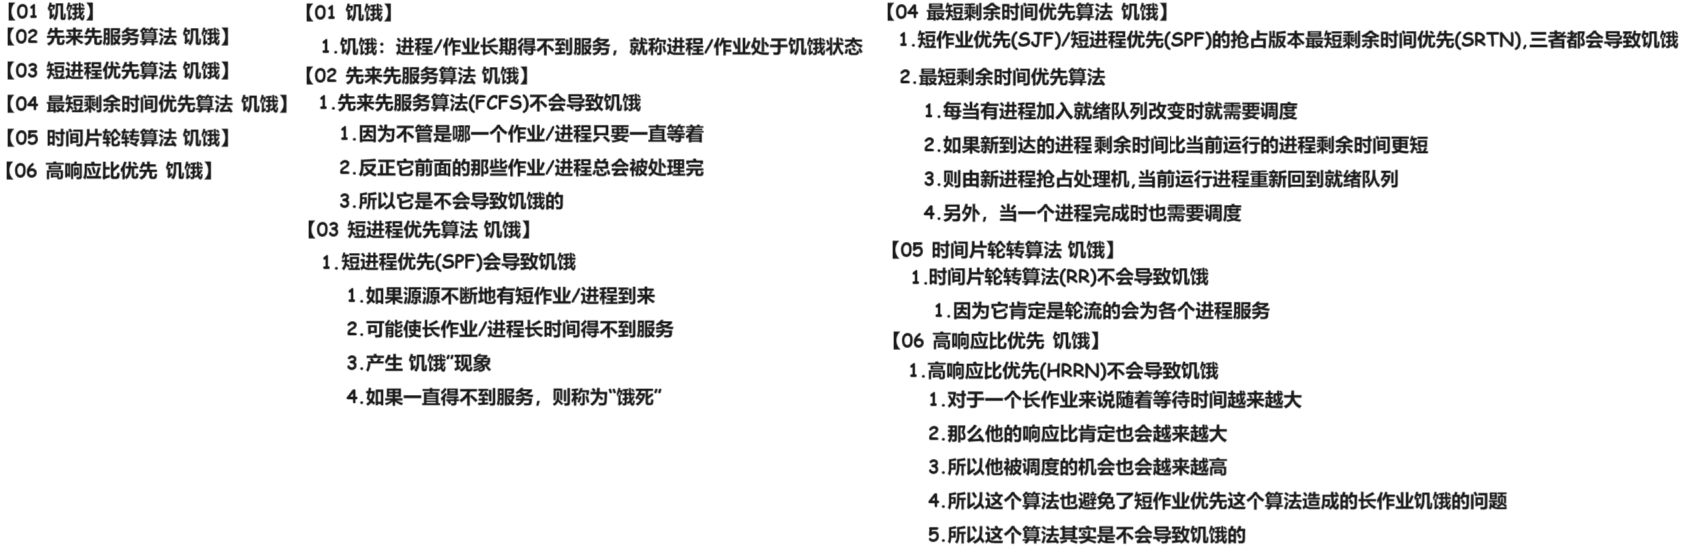
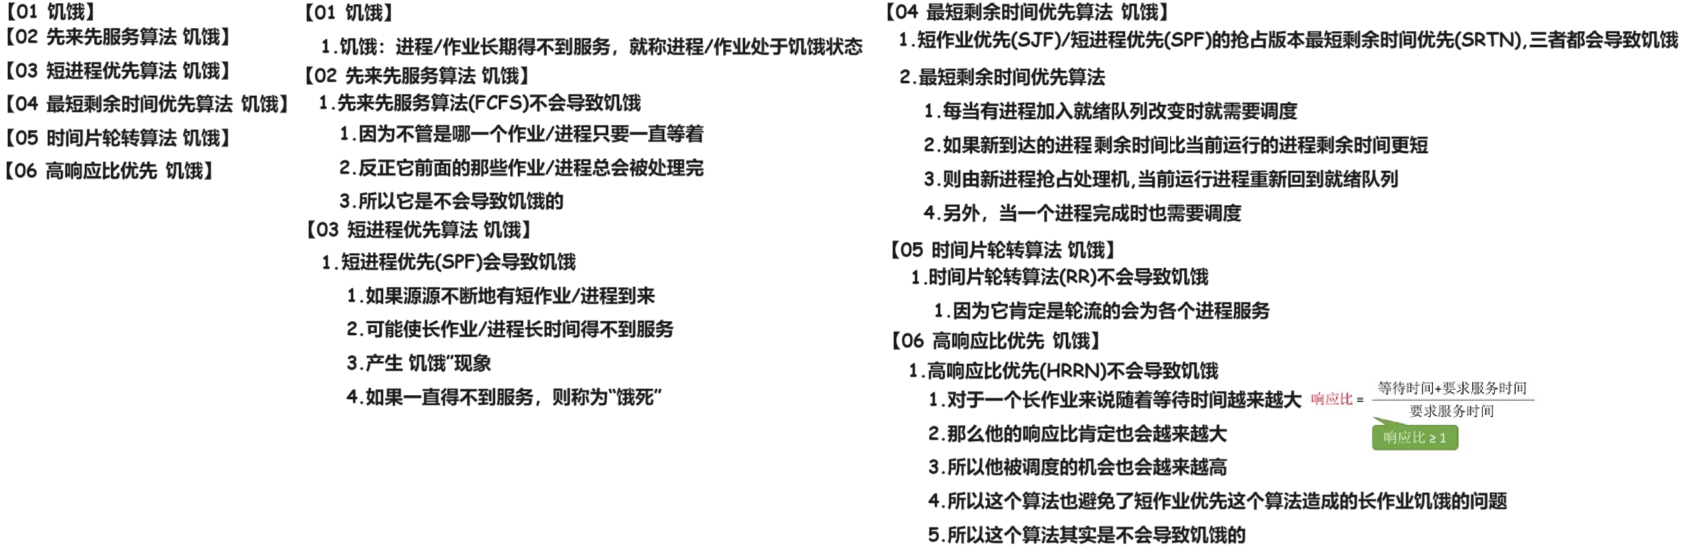
240706

diff --git a/01 初试/01 OS/01 题集/01 820/05 22 12/01 小题 12/01 选择题 12 = 4 + 8/02 余哥考研 8/08 选择题9 进程调度算法 饥饿 240706/02 Doc.md b/01 初试/01 OS/01 题集/01 820/05 22 12/01 小题 12/01 选择题 12 = 4 + 8/02 余哥考研 8/08 选择题9 进程调度算法 饥饿 240706/02 Doc.md
@@ -1,6 +1,6 @@
 # 00 背诵
 
-<img src="https://cvp.oss-cn-shanghai.aliyuncs.com/picgo/202407061156837.png" alt="image-20240706115600603" style="zoom:50%;" />
+<img src="https://cvp.oss-cn-shanghai.aliyuncs.com/picgo/202407061212348.png" alt="image-20240706121206092" style="zoom:50%;" />
 
 
 
